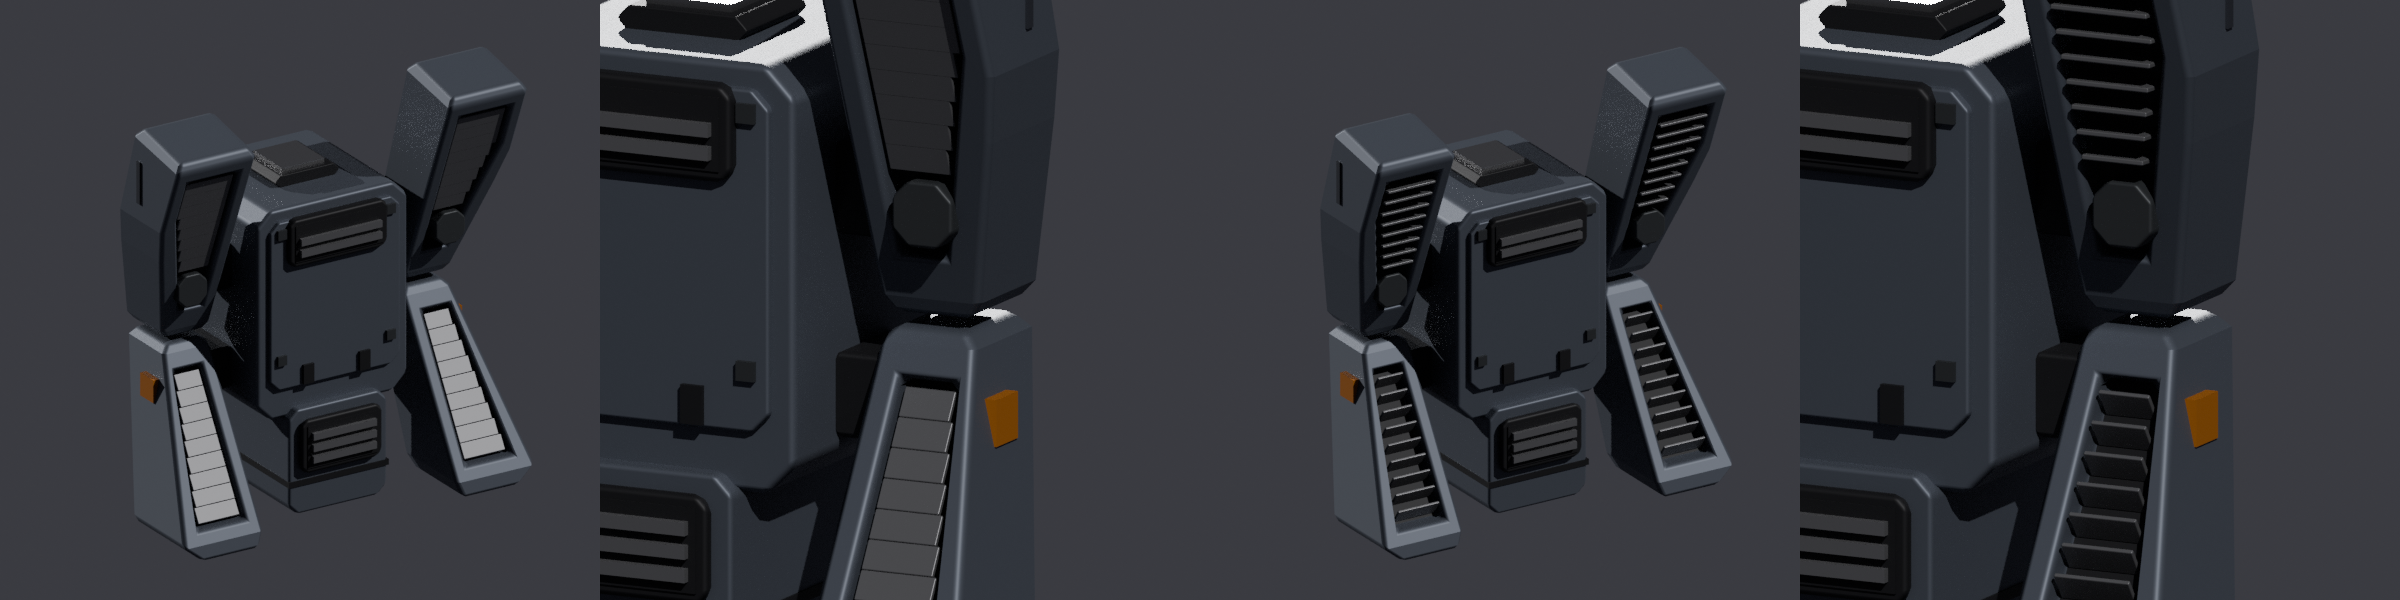
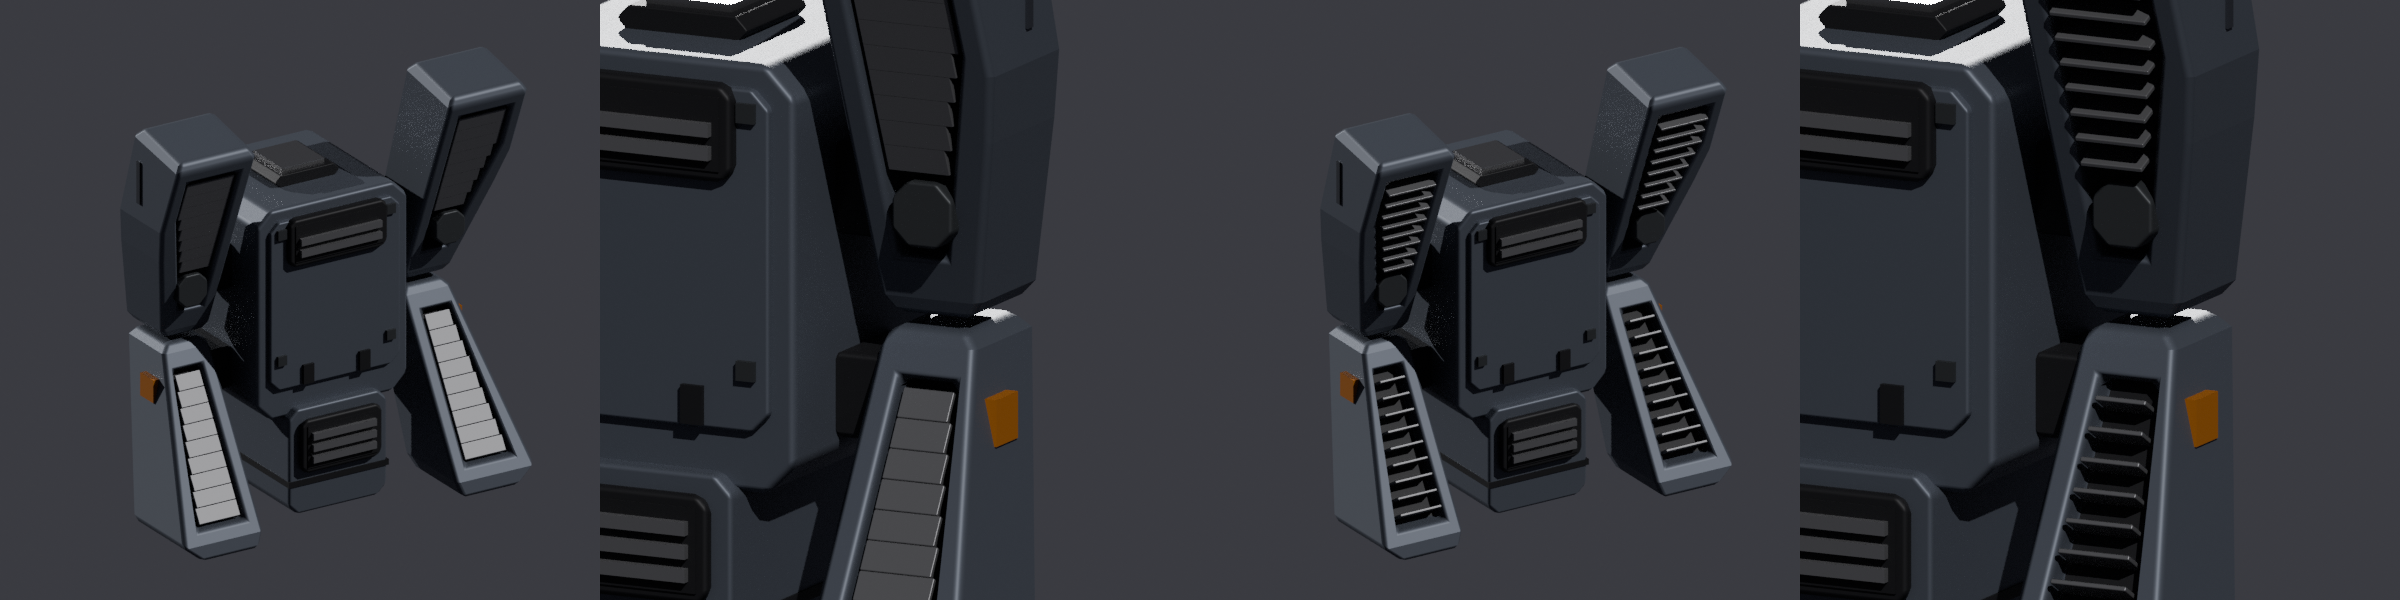
Boost Pack flaps open at a right angle (user request); hinges moved out so open flaps clear the back plate; DESIGN
Claude-Session: https://claude.ai/code/session_01KUmA76NY1pcqzEi2nqAKbZ

diff --git a/tools/blender/backpack_build.py b/tools/blender/backpack_build.py
@@ -489,8 +489,8 @@ def poly_x_range(pts, z):
 def grille_flaps(name, pts, face_y, depth, sx, pitch, inset, z_from=-99.0):
     """Louver flaps across a recessed grille (user request 2026-10-31: "turn the grilles into flaps that open when
     boosting and close when not boosting"). Each flap is its own object <name><i>, origin on its hinge (the flap's
-    middle line, depth * 0.4 inside the face), local X = the hinge along the fin's width, local Z = up along the
-    face, local -Y = out of the face. Closed (as built) the flaps lie in the face plane and overlap a little, so
+    middle line, depth * 0.3 inside the face, so a flap open at a right angle clears the back plate), local X = the
+    hinge along the fin's width, local Z = up along the face, local -Y = out of the face. Closed (as built) the flaps lie in the face plane and overlap a little, so
     they cover the recess; the game turns them about local X to open them (BackPackFlaps)."""
     height, thick = pitch + 0.012, 0.014
     z_low = max(min(z for _, z in pts) + 0.01, z_from)
@@ -511,7 +511,7 @@ def grille_flaps(name, pts, face_y, depth, sx, pitch, inset, z_from=-99.0):
                 bmesh.ops.create_cube(bm, size=1.0)
                 bmesh.ops.scale(bm, vec=(x1 - x0, thick, height), verts=bm.verts)
                 obj = new_object(f"{name}{i}", bm)
-                obj.location = (sx * (x0 + x1) / 2, face_y(z) + depth * 0.4, z)
+                obj.location = (sx * (x0 + x1) / 2, face_y(z) + depth * 0.3, z)
                 obj.rotation_euler = (tilt, 0.0, 0.0)
                 parts.append(finish(obj, "bp_slat", 0.004))
         z += pitch

diff --git a/DESIGN.md b/DESIGN.md
@@ -974,7 +974,7 @@ User brief: assemble the four AI-made parts in `models/medium/` (head, torso, le
 - Boost Pack (user picture 2026-10-31, `models/guides/backpack_boost_ref.png`): `data/parts/backpacks/backpack_boost.tres` (1.4 t, 240 HP, 1 aux slot, boost +12%; job chosen by Claude from the grilles, the user can change it). Model `backpack_build.py -- boost` (`build_boost_pack`, 3,624 triangles, gunmetal colors from the picture): a center box with a louvered vent and a lower box with a vent, two fins each side, black connectors, orange lamps on the lower fins' outer sides, one hardpoint (`Aux1`) on the box top. Size 2.0 m wide, 2.2 m high, 1.1 m deep (top at 8.8 m).
   - Fin shape (user 2026-10-31: "the fin shape on the dorsal side should be like in the picture; only follow the shape, do not enlarge the backpack"; then "more like an inverted K shape, the current shape still looks a bit flat"): seen from the side the fins are the two arms of an inverted K inside the same pack size. Both start at a root next to the box (y -0.28 to -0.62 m, at the box's middle height); the upper fin leans back toward its top (back face to y -1.06 m), the lower fin leans back toward its bottom (to y -1.10 m), so a V opens between them on the back. Back view: the upper fin is wide at the top and tapers down, the lower fin is narrow at the top and flares out. The outlets follow the faces: the upper ones blow back and a little down, the lower ones back and a little up.
   - Recessed outlet grilles (user 2026-10-31: "push in the grills into the fins a bit more, like a shallow excavation"): each fin grille sits in a recess 0.09 m deep (`TYPES["boost"]["recess"]`). A Boolean (difference, before the bevel) cuts the grille outline into the fin; the black plate (`OutletGlow<n>`), the slats and the dark block sit at the bottom of the recess. Cutter objects (`*Cutter`) stay in the .blend and are not exported. 2,608 triangles. Picture `models/backpacks/backpack_boost_recess.png`.
-  - Louver flaps (user 2026-10-31: "turn the grilles into flaps that open when boosting and close when not boosting"): the fixed slats of the four fin grilles are now flaps, `OutletFlap<outlet>_<n>` (34 in all; `grille_flaps` in `backpack_build.py`), each its own node with its origin on its hinge (local X along the fin width, 0.4 x recess depth inside the face). Closed (as built) they lie in the face plane, overlap a little and cover the recess; the upper grilles have no flaps below the dark block. `BackPackFlaps` (`scripts/effects/back_pack_flaps.gd`; `BackPackMount` adds it when the model has flaps) turns them about local X while `Mech.is_boosting`: `open_angle_deg` 65 (the top edge swings out), `open_speed` 6/s, `close_speed` 3/s, eased. A hidden pack or a wrecked mech closes them. 3,624 triangles. Pictures: `models/backpacks/backpack_boost_flaps.png` (Blender closed and open), `backpack_boost_glow.png` (game, closed and boosting).
+  - Louver flaps (user 2026-10-31: "turn the grilles into flaps that open when boosting and close when not boosting"): the fixed slats of the four fin grilles are now flaps, `OutletFlap<outlet>_<n>` (34 in all; `grille_flaps` in `backpack_build.py`), each its own node with its origin on its hinge (local X along the fin width, 0.3 x recess depth inside the face, so an open flap clears the back plate). Closed (as built) they lie in the face plane, overlap a little and cover the recess; the upper grilles have no flaps below the dark block. `BackPackFlaps` (`scripts/effects/back_pack_flaps.gd`; `BackPackMount` adds it when the model has flaps) turns them about local X while `Mech.is_boosting`: `open_angle_deg` 90 (a right angle, user 2026-10-31; the top edge swings out), `open_speed` 6/s, `close_speed` 3/s, eased. A hidden pack or a wrecked mech closes them. 3,624 triangles. Pictures: `models/backpacks/backpack_boost_flaps.png` (Blender closed and open), `backpack_boost_glow.png` (game, closed and boosting).
   - Boost outlets (user 2026-10-31: "the outlet is on the fins. During boost, the outlets on the fins should glow and expel wind"): a louvered grille on each fin's back face. Model nodes `Outlet1..4` (+Y in Godot = out of the grille, backward; 1..2 upper fins, 3..4 lower fins along the tilted face) and `OutletGlow1..4` (the black recess plates). `BackPackOutlets` (`scripts/effects/back_pack_outlets.gd`; `BackPackMount` adds it when the model has `Outlet1`, so other packs get none): while `Mech.is_boosting` (ground and air boost) the plates glow orange (an added `material_overlay`, `glow_color`, `glow_strength` 0.9) and each outlet blows pale air puffs in the world (`CPUParticles3D`, `wind_rate` 30/s, `wind_speed` 14 m/s, `wind_spread_deg` 12, `wind_life` 0.45 s, size 0.35 to 1.4 m, fade out); `ignite_speed` 8/s, `fade_speed` 3/s. A destroyed pack (model hidden) or a wrecked mech stops both. The lower box vent is not an outlet.
   - Test `tools/godot/test_boost_pack.gd` (catalog, outlets point backward within about 33 degrees, glow and wind only while boosting, other packs have none; `BOOST_SHOT=<png>` with a window). Pictures: `models/backpacks/backpack_boost_preview.png`, `backpack_boost_on_mech.png`, `backpack_boost_glow.png`.
 - Later: thruster flames at `Thruster1..2`, equipment models on the `Aux` hardpoints, a break effect for the pack, more pack types from pictures.
